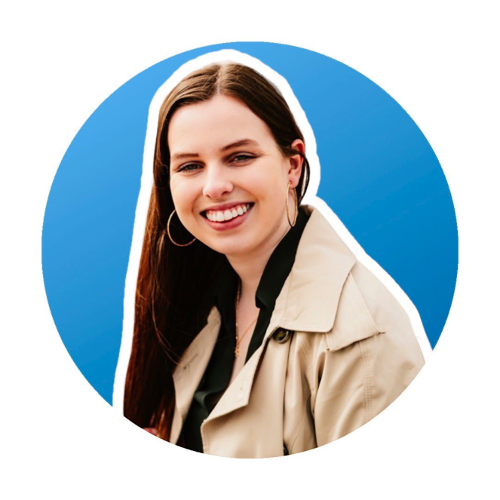
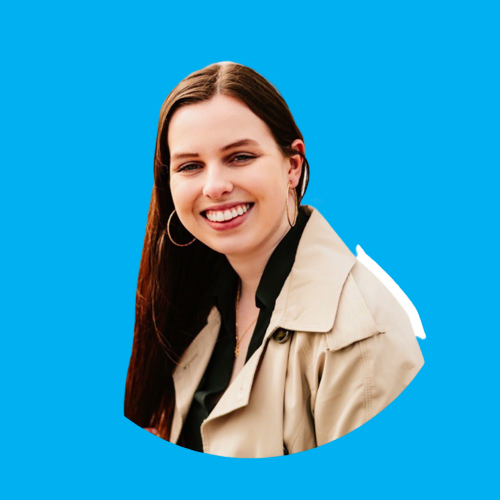
update

diff --git a/index.html b/index.html
@@ -109,7 +109,7 @@
       </p>
       <img
         src="/images/ceo.png"
-        style="margin: auto; height: 300px;" />
+        style="margin: auto; height: 300px; border-radius: 30px;" />
     </div>
   </div>
   <!-- Footer -->
